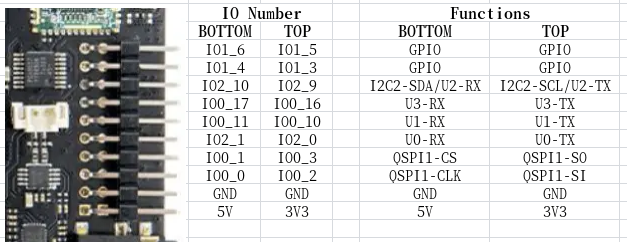
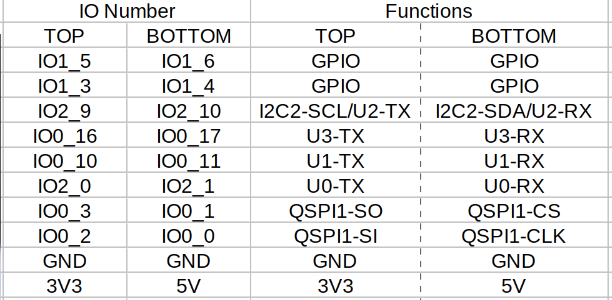
Fix some typo and update gpio examples

diff --git a/docs/hardware/en/lichee/th1520/lpi4a/6_peripheral.md b/docs/hardware/en/lichee/th1520/lpi4a/6_peripheral.md
@@ -67,14 +67,14 @@ If it boots successfully, then you can check the following values to confirm tha
 
 Take PWM1 which is connected to the cooling fan as an example, you can enable the fan with the following code:
 
-``bash
+```bash
 echo 1 > /sys/class/pwm/pwmchip0/export
 echo 1000000 > /sys/class/pwm/pwmchip0/pwm1/period
 echo 1000000 > /sys/class/pwm/pwmchip0/pwm1/duty_cycle
 echo 1 > /sys/class/pwm/pwmchip0/pwm1/enable
 ```
 
-## GPIOs
+## GPIO
 
 The LicheePi 4A has 2x10pin pins on board with 16 native IOs, including 6 normal IOs, 3 pairs of serial ports, and one SPI.
 > Note: All native IOs of the SOC are at 1.8V level, please pay attention to the level shift. 
@@ -96,7 +96,7 @@ Where the 4Byte (32bit) at offset 0x0 is the GPIO data register and the 4Byte (3
 
 
 
-The GPIO correspondences of the pins on the LicheePi 4A are: 
+The GPIO correspondences of the pins on the LicheePi 4A are(from the perspective of overlooking the front of the BOTTOM plate, TOP is the left side, BOTTOM is the right side): 
 ![io_map](./../../../../zh/lichee/th1520/lpi4a/assets/peripheral/io_map.png)  
 
 > Subject to the labeling of the document, the silkscreen labeling of the internal test version may be incorrect 
@@ -114,7 +114,7 @@ echo 0 > /sys/class/gpio/gpio${num}/value
 
 The mapping of GPIO is shown in the following figure：
 
-[gpio_num](./../../../../zh/lichee/th1520/lpi4a/assets/peripheral/gpio_num.png)
+![gpio_num](./../../../../zh/lichee/th1520/lpi4a/assets/peripheral/gpio_num.png)
 
 For example, if you want to operate the 4 GPIOs on the pin, the correspondence is as follows, change the num in the above code to the number corresponding to the GPIO pin you want to operate. 
 
@@ -142,6 +142,75 @@ sipeed@lpi4a:~$ sudo cat /sys/kernel/debug/gpio
 Here are the sample results:
 
 ![peripheral_gpio_information](./../../../../zh/lichee/th1520/lpi4a/assets/peripheral/peripheral_gpio_information.png)
+
+Next, taking GPIO1_3 on the baseplate pin as an example, we use libgpiod to operate gpio in user space. First install libgpiod:
+```shell
+sudo apt update
+sudo apt install libgpiod-dev
+```
+
+Then run the `vi gpio.c` command, and write the following code to the file:
+```c
+#include <stdio.h>
+#include <stdlib.h>
+#include <unistd.h>
+#include <gpiod.h>
+
+int main()
+{
+    int i;
+    int ret;
+
+    struct gpiod_chip * chip;
+    struct gpiod_line * line;
+
+    chip = gpiod_chip_open("/dev/gpiochip1");
+    if(chip == NULL)
+    {
+        printf("gpiod_chip_open error\n");
+        return -1;
+    }
+
+    line = gpiod_chip_get_line(chip, 3);
+    if(line == NULL)
+    {
+        printf("gpiod_chip_get_line error\n");
+        gpiod_line_release(line);
+    }
+
+    ret = gpiod_line_request_output(line,"gpio",0);
+    if(ret < 0)
+    {
+        printf("gpiod_line_request_output error\n");
+        gpiod_chip_close(chip);
+    }
+
+    for(i = 0; i < 10; i++)
+    {
+        gpiod_line_set_value(line,1);
+        sleep(1);
+        gpiod_line_set_value(line,0);
+        sleep(1);
+    }
+
+    gpiod_line_release(line);
+    gpiod_chip_close(chip);
+
+    return 0;
+}
+```
+
+Compile with the following command:
+```shell
+gcc gpio.c -I /usr/include/ -L /usr/lib/riscv64-linux-gnu/ -lgpiod -o gpio
+```
+
+Then execute with root privileges:
+```shell
+sudo ./gpio
+```
+
+At this time, use a multimeter to measure the IO1_3 pin on the baseplate. You can find that the voltage of the pin changes every second.
 
 <!--
 ```bash
@@ -547,7 +616,12 @@ make -j4
 #授予设备权限，每次开机执行一次即可
 . exec.sh
 ./tft_demo
-``` -->
+``` 
+#### Renderings
+
+![效果图1](./../../../../zh/lichee/th1520/lpi4a/assets/peripheral/tft_demo.png)
+
+-->
 
 Common ioctl commands for SPI:
 
@@ -643,10 +717,6 @@ int main(int argc, char *argv[]) {
     return ret;
 }
 ```
-
-#### Renderings
-
-![效果图1](./../../../../zh/lichee/th1520/lpi4a/assets/peripheral/tft_demo.png)
 
 ## USB 
 

diff --git a/docs/hardware/zh/lichee/th1520/lpi4a/6_peripheral.md b/docs/hardware/zh/lichee/th1520/lpi4a/6_peripheral.md
@@ -94,7 +94,7 @@ TH1520 SOC 具有4个GPIO bank，每个bank最大有32个IO：
 
 其中 0x0 偏移处的 4Byte（32bit）是 GPIO 数据寄存器，0x4 偏移处的 4Byte（32bit）是 GPIO 方向寄存器
 
-LicheePi 4A上的插针的 GPIO 对应关系为：  
+LicheePi 4A上的插针的 GPIO 对应关系为（以俯视底板正面为视角，TOP为左侧，BOTTOM为右侧）：  
 ![io_map](./assets/peripheral/io_map.png)  
 
 > 以文档的标注为准，内测版的丝印标注可能有误 
@@ -112,7 +112,7 @@ echo 0 > /sys/class/gpio/gpio${num}/value
 
 GPIO 号的对应关系如下图所示：
 
-[gpio_num](./assets/peripheral/gpio_num.png)
+![gpio_num](./assets/peripheral/gpio_num.png)
 
 比如要操作插针上的4个 GPIO，对应关系如下，将上述代码的num改为想要操作的 GPIO 脚对应的数字即可: 
  
@@ -140,6 +140,75 @@ sipeed@lpi4a:~$ sudo cat /sys/kernel/debug/gpio
 下面是示例结果:
 
 ![peripheral_gpio_information](./assets/peripheral/peripheral_gpio_information.png)
+
+接下来，以底板插针上的 GPIO1_3 为例，我们通过 libgpiod 在用户空间操作 gpio。首先安装 libgpiod：
+```shell
+sudo apt update
+sudo apt install libgpiod-dev
+```
+
+使用 `vi gpio.c` 命令，将下面的代码写入文件：
+```c
+#include <stdio.h>
+#include <stdlib.h>
+#include <unistd.h>
+#include <gpiod.h>
+
+int main()
+{
+    int i;
+    int ret;
+
+    struct gpiod_chip * chip;
+    struct gpiod_line * line;
+
+    chip = gpiod_chip_open("/dev/gpiochip1");
+    if(chip == NULL)
+    {
+        printf("gpiod_chip_open error\n");
+        return -1;
+    }
+
+    line = gpiod_chip_get_line(chip, 3);
+    if(line == NULL)
+    {
+        printf("gpiod_chip_get_line error\n");
+        gpiod_line_release(line);
+    }
+
+    ret = gpiod_line_request_output(line,"gpio",0);
+    if(ret < 0)
+    {
+        printf("gpiod_line_request_output error\n");
+        gpiod_chip_close(chip);
+    }
+
+    for(i = 0; i < 10; i++)
+    {
+        gpiod_line_set_value(line,1);
+        sleep(1);
+        gpiod_line_set_value(line,0);
+        sleep(1);
+    }
+
+    gpiod_line_release(line);
+    gpiod_chip_close(chip);
+
+    return 0;
+}
+```
+
+通过以下命令编译：
+```shell
+gcc gpio.c -I /usr/include/ -L /usr/lib/riscv64-linux-gnu/ -lgpiod -o gpio
+```
+
+然后以 root 权限执行：
+```shell
+sudo ./gpio
+```
+
+此时用万用表测量底板上的 IO1_3 引脚，可以发现每隔一秒该引脚电压会发生变化。
 
 <!--
 ```bash
